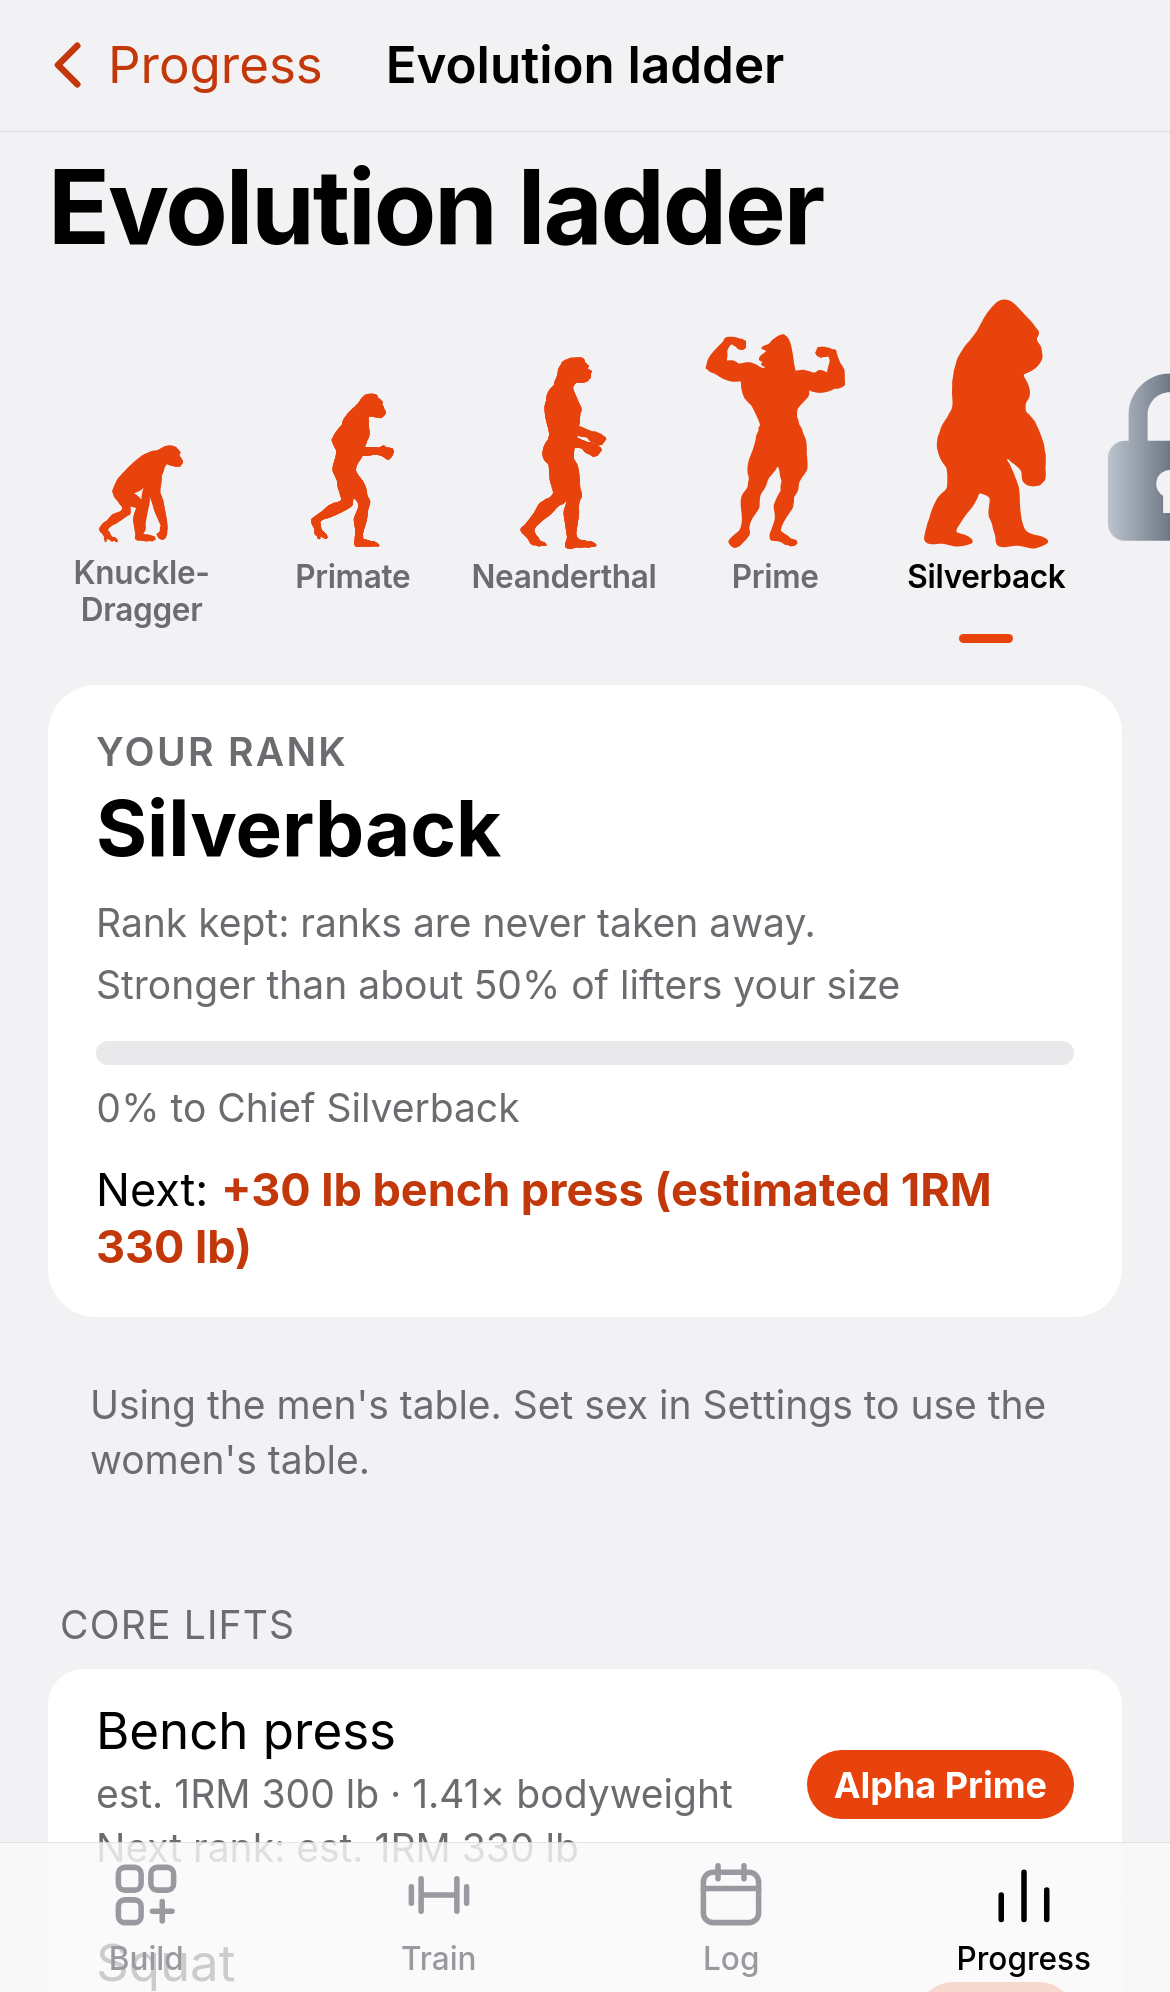
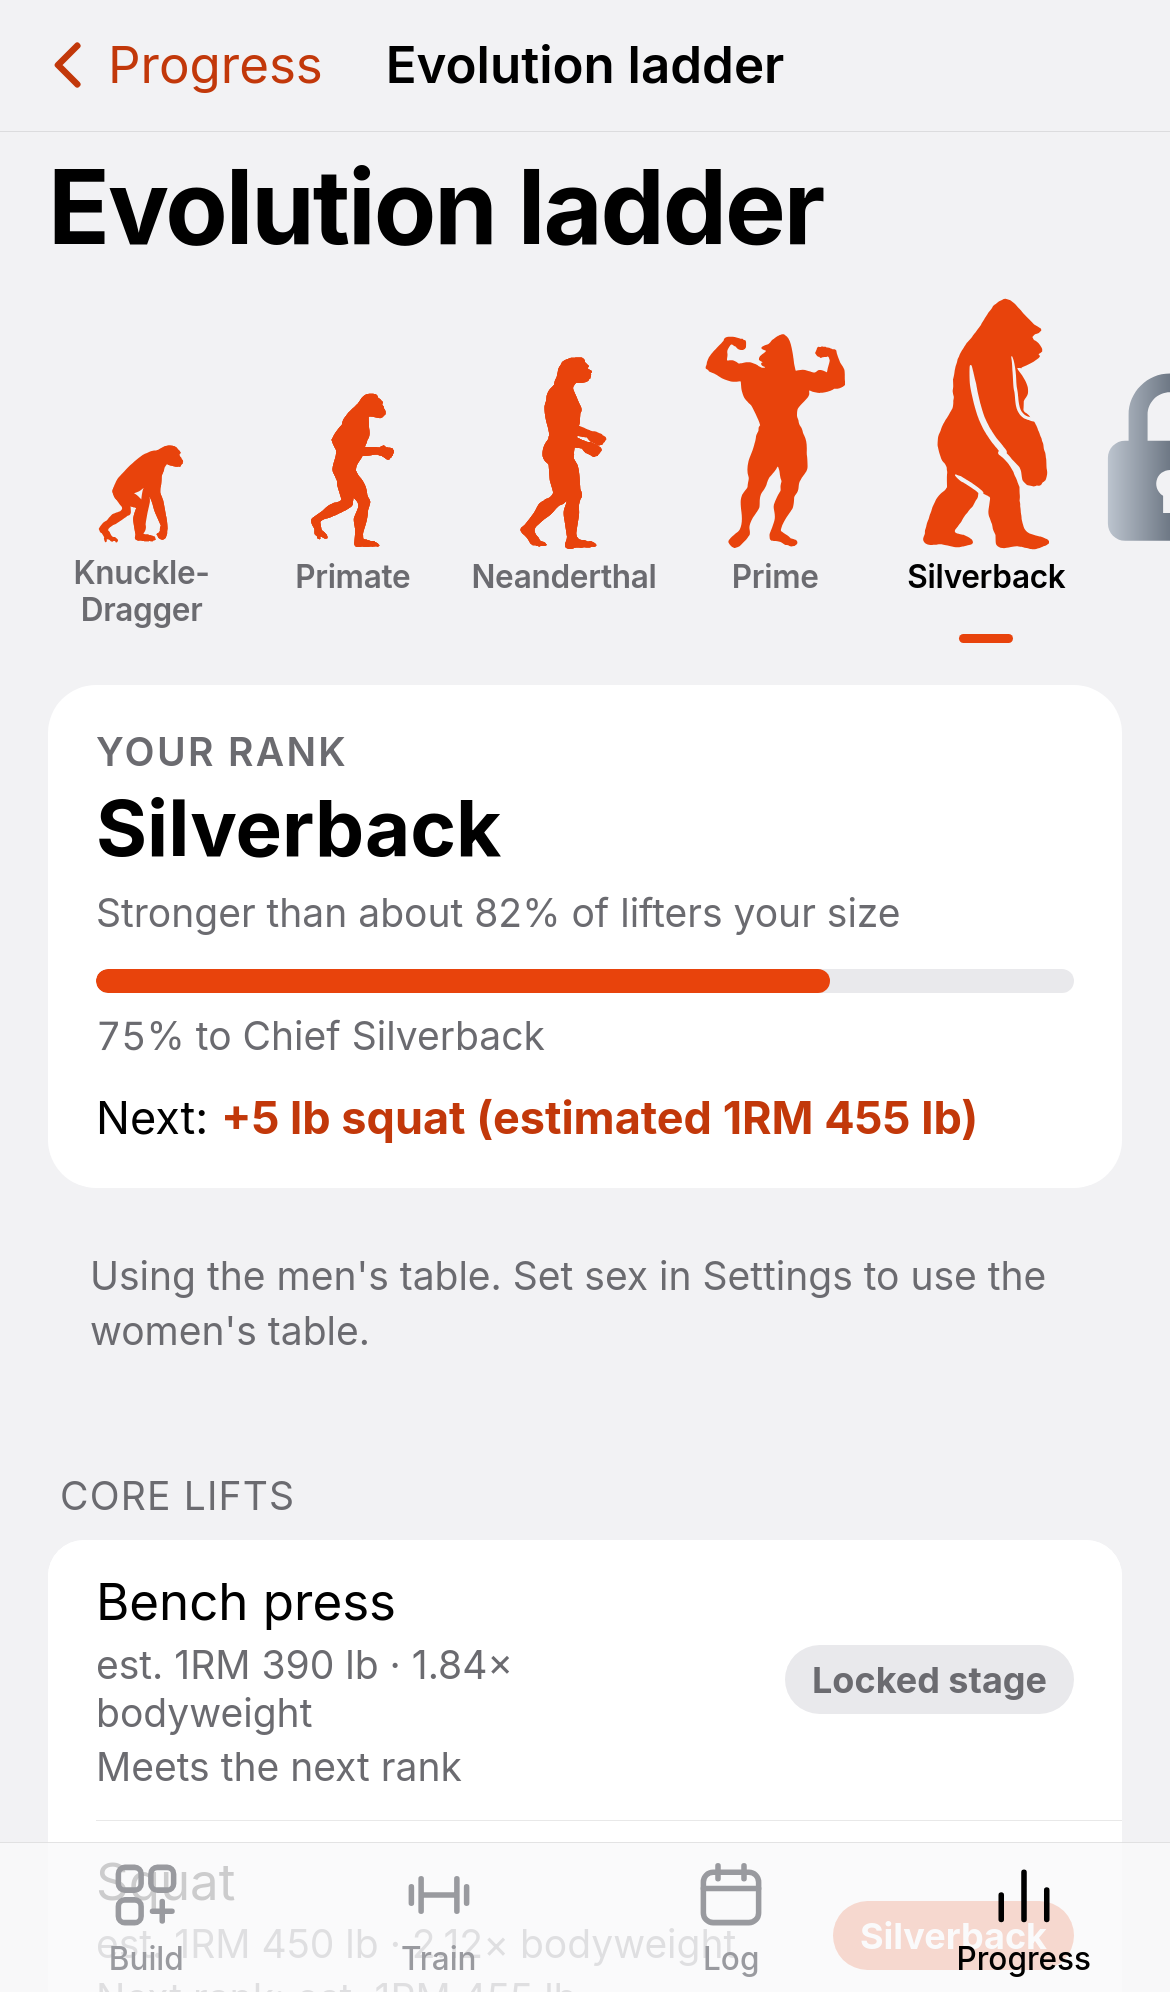
Storyboard: Silverback pass 2 (free arm, head profile, chest line, stride)

diff --git a/storyboard/assets/ladder/LICENSES.md b/storyboard/assets/ladder/LICENSES.md
@@ -9,7 +9,7 @@ Nothing here is under a share-alike, non-commercial or unclear licence. All figu
 | stage-1.svg | Knuckle-Dragger | "Evolution Steps", Openclipart #348815, https://openclipart.org/detail/348815/evolution-steps (figure 1 of 5) | j4p4n (uploaded Jul 11, 2024) | CC0 1.0 Universal, https://creativecommons.org/publicdomain/zero/1.0/ | Split from the set, orange gradients flattened to `currentColor`, shared baseline / width, numbers rounded. |
 | stage-2.svg | Primate | same set, Openclipart #348815 (figure **3** of 5; was our stage-3 Neanderthal before art round 2) | j4p4n | CC0 1.0 | As stage-1; moved down one stage. The set's figure 2 (our old Primate) is no longer used. |
 | stage-3.svg | Neanderthal | same set, Openclipart #348815 (figure **4** of 5; was our stage-4 Silverback before art round 2) | j4p4n | CC0 1.0 | As stage-1; moved down one stage. |
-| stage-4.svg | Silverback | Traced from Mr Dude's reference image (sbref, Oct 30, 2026: storyboard/ref/silverback-ref.jpg, a black side-view gorilla walking upright, facing right): upscaled 4x, thresholded, interior detail (face, brow, ear, chest patch) filled solid, fur fringe smoothed (open + blur + re-threshold), upper body and arms dilated for bulk with the legs and feet left as traced, potrace (potracer) to one outer contour, scaled to 414 tall in the shared 414.44 viewBox, currentColor fill. | Mr Dude (reference supplied by the owner) | Owner-supplied; licence of the reference to confirm | Replaces the hand-drawn Silverback D (below), which is no longer shipped. |
+| stage-4.svg | Silverback | Traced from Mr Dude's reference image (storyboard/ref/silverback-ref.jpg, a black side-view gorilla walking upright, facing right). sbref2 (Oct 30, 2026): outline kept close to the ref (4x upscale, threshold, holes filled, light de-fringe), face profile (brow ridge, eye notch, muzzle, mouth, chin) hand-authored on the ref's face outline, negative-space cuts hand-authored along the ref's fur highlights (arm back edge from shoulder to the free hand, ~2.4% of figure height; chest-patch edge; back-thigh line into the stride gap), back and shoulders broadened slightly, potrace (potracer, alphamax 0.9) to one contour, 414 tall in the shared 414.44 viewBox, control points clamped inside it, currentColor fill. | Mr Dude (reference supplied by the owner) | Owner-supplied; licence of the reference to confirm | Replaces the first sbref trace (too blobby) and the hand-drawn Silverback D (below). |
 | stage-5.svg | Prime (also drawn for Kong / Apex once revealed) | Body: "fitness" (front double-biceps bodybuilder), Openclipart #20991, https://openclipart.org/detail/20991 . Head: original drawing, gorilla head in profile (crest, heavy brow ridge, jutting muzzle) | Body: btoteva (uploaded Jan 5, 2009); head: hand-authored for Ape Chit | CC0 1.0 (body: Openclipart CC0; head: our dedication) | Line-art body filled to a solid silhouette, its human head removed and replaced by our gorilla head, then traced to one `currentColor` path; viewBox 0 0 270.37 414.44, 410 units tall. |
 | lock.svg | Hidden tier (replaces the '???' figure) | Original drawing: padlock with keyhole | Hand-authored for Ape Chit | CC0 1.0 (our dedication) | The app draws the same path inline (`LOCK_D` in sb.js) with a grey gradient that darkens toward the screen edge. |
 

diff --git a/storyboard/ARCHITECTURE-web-storyboard.md b/storyboard/ARCHITECTURE-web-storyboard.md
@@ -508,4 +508,4 @@ The suite runs all three (`r3*` checks).
 
 - **swap3 percentile ladder (Coach's Strength Level port):** data synced evolution-rules.json 64ceb28f, evolution-reference.json 739e0db3 (50 edge cases), evolution-spec.md 8268384e; proposals/swap3/sources.md not shipped (spec: gap table "Not shown in the app"). `logic/ladder.js` adds the curve math from tools/evolution_sl.py (`SL.tiersAt / atPct / entries / raw / shown / position / pctFromPos`, `slBars` cached), Python half-even `rnd`, `overallRankPos`, `posProgress`, `pctEntry`, `percentile` (band `top` at position >= 18), mig3 migration (`migrationPartsSl`, `migrationFloorSl` 3-of-5 / all-5, `hiddenStarts` 15/18, `MIG_SUBS`). Lift values are est. 1RM in the display unit + multiple of bodyweight; targets are "Next rank: est. 1RM X lb". UI: `ladPct()` percentile line ("Stronger than about N% of lifters your size") on the Progress card and ladder hero; footer `labels.bars` + "The percentile line is an estimate." `#finish-rankup` demo also turns lat-pulldown into pull-ups at the target reps when still short of 3-of-5. Parity: sample + 50 cases, expected + full, 0 diffs. A fresh 225 bench at 180 lb is Prime; migrated v1 Prime lands at Silverback by design. Shots `swap3` gate 60a–h; `medals` 59e/f (real-history 4-medal log) and 59o/p (bench plates Oct 2025 – Oct 2026) are built in test/shots.js.
 
-- **Silverback figure (sbref, Oct 30, 2026):** `assets/ladder/stage-4.svg` is now a trace of Mr Dude's reference `ref/silverback-ref.jpg` (4x upscale, threshold, holes filled so the face / brow / ear / chest are solid, fringe smoothed by open + blur + re-threshold, upper body and arms dilated for bulk, potrace via potracer, one outer contour, 414 tall in the 414.44 viewBox, `currentColor`); same file and mask everywhere Silverback is drawn (strips, rank card, rank-up). Shots `sbref` gate 61a–c.
+- **Silverback figure (sbref2, Oct 30, 2026):** `assets/ladder/stage-4.svg` traces Mr Dude's reference `ref/silverback-ref.jpg` close to its outline, with a hand-authored face profile (brow, eye notch, muzzle, mouth, chin) and negative-space cuts along the ref's fur highlights (arm back edge to the free hand, chest edge, back thigh), back and shoulders broadened slightly; one potrace contour, 414 tall in the 414.44 viewBox, `currentColor`; same file everywhere Silverback is drawn. Shots `sbref` gate 61a–c (61a earns Silverback for real with sample loads x1.3, so its percentile line reads 82%).
